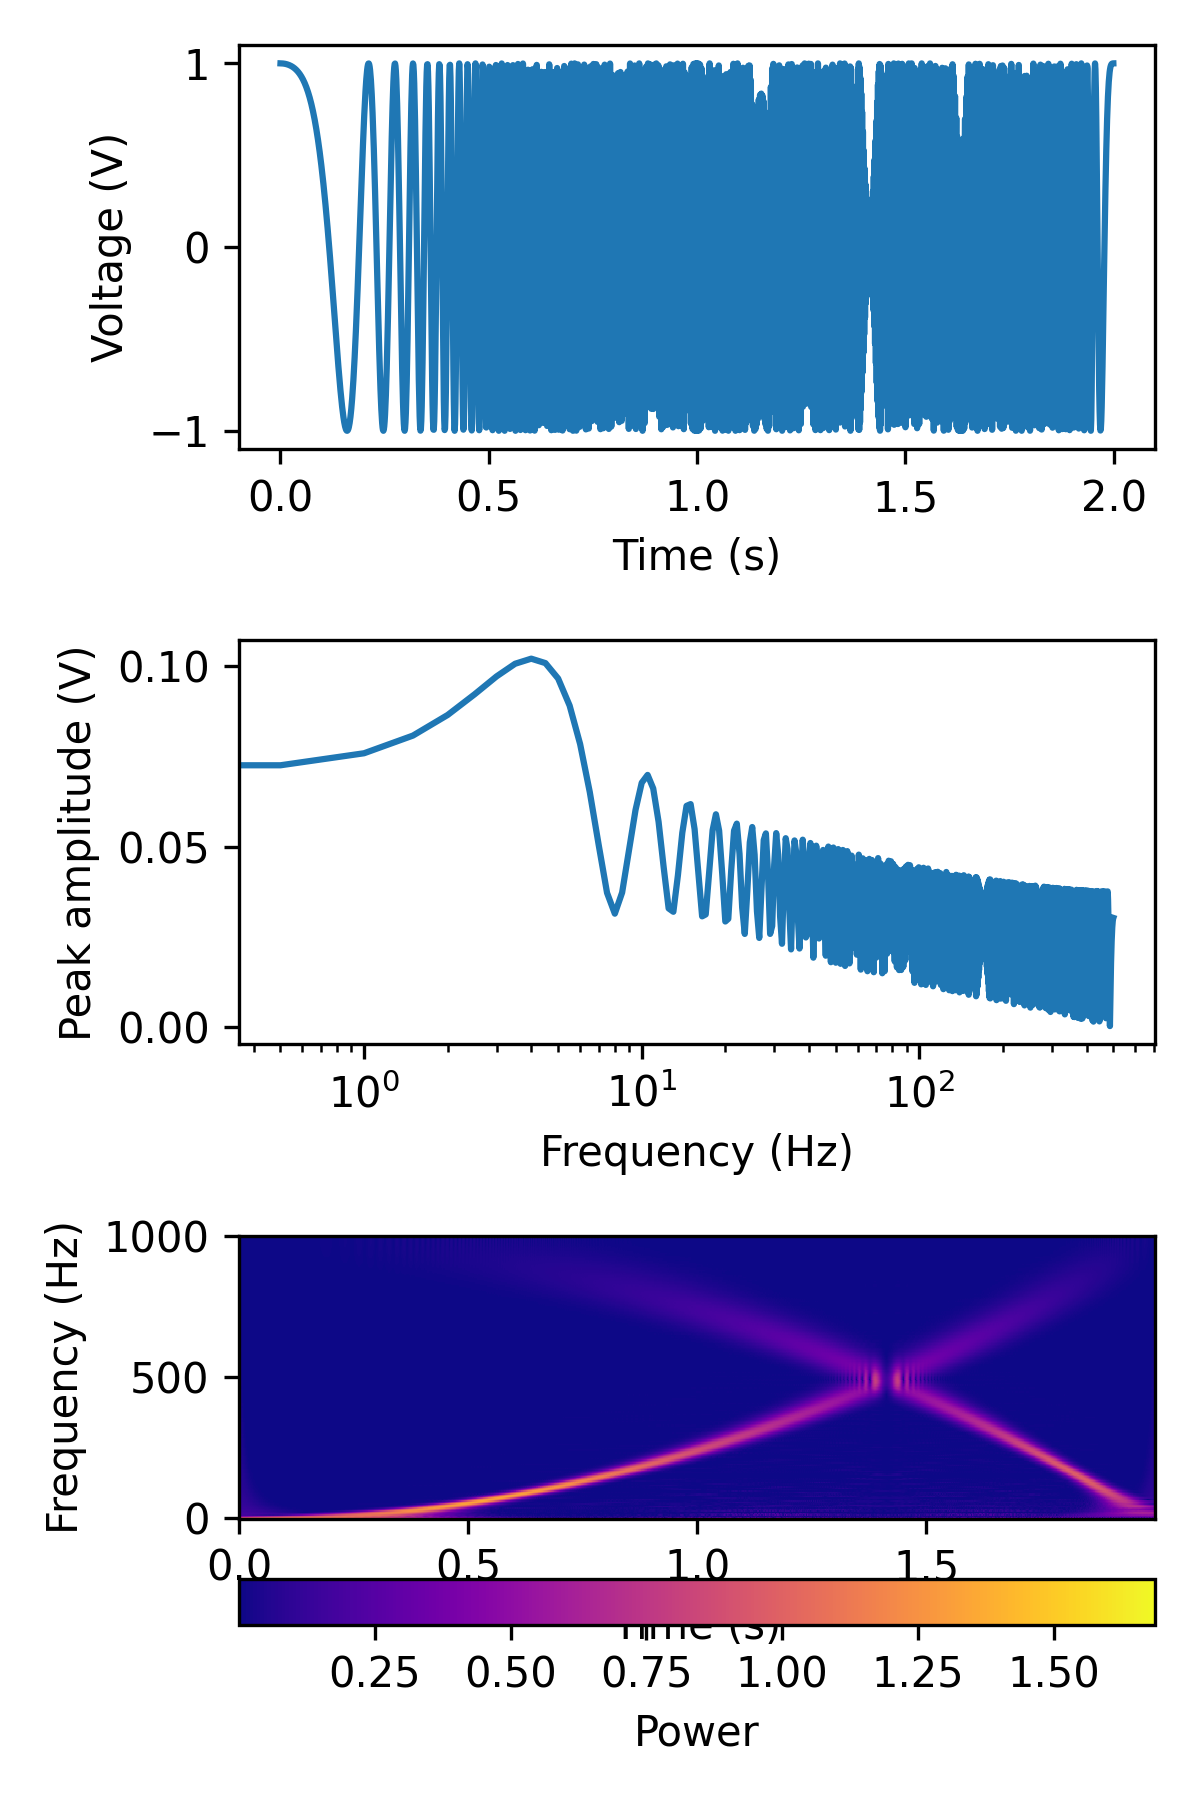
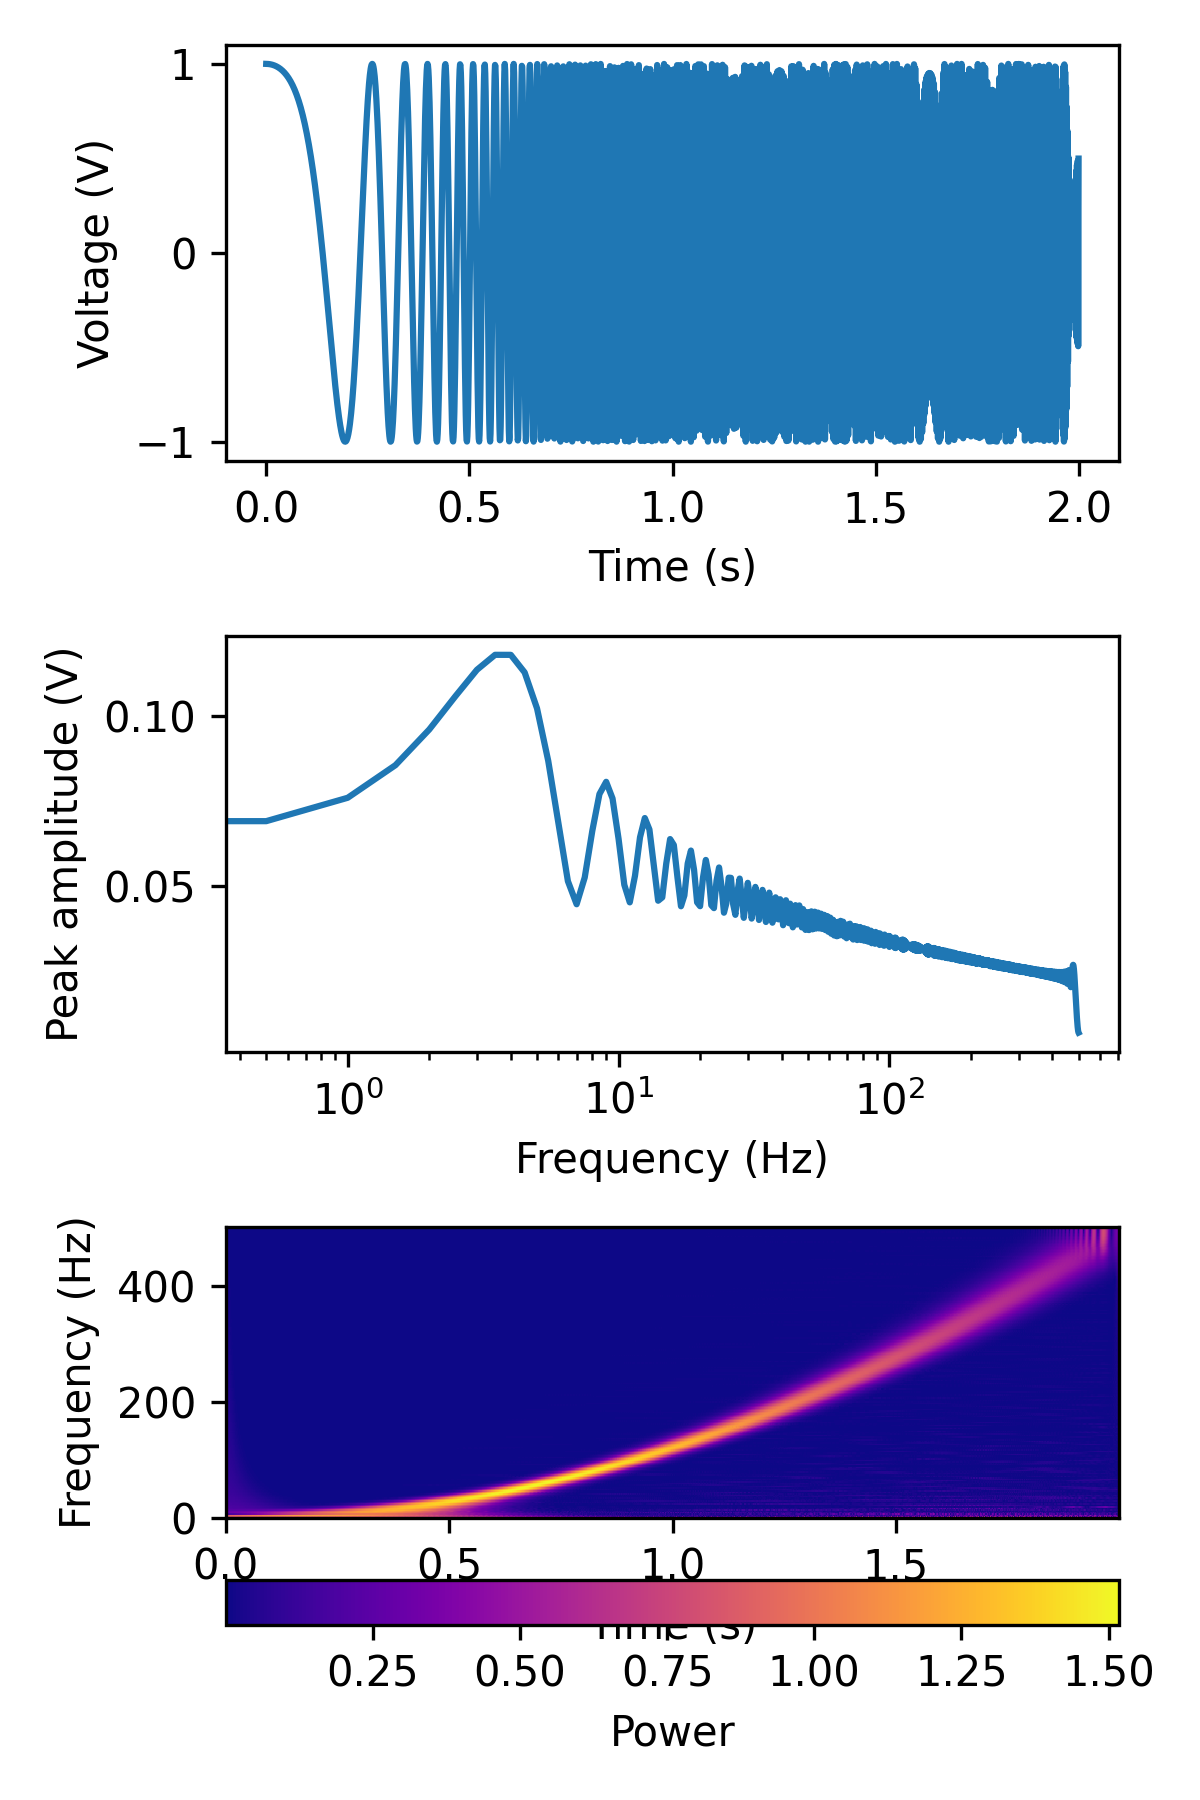
add stft

diff --git a/aopy/analysis/base.py b/aopy/analysis/base.py
@@ -790,6 +790,58 @@ def calc_cwt_tfr(data, freqs, samplerate, fb=1.5, f0_norm=1.0, method='fft', com
         coef = np.abs(coef)
     return freqs, time, np.flip(coef, axis=0)
 
+def calc_ft_tfr(data, samplerate, win_t, step, f_max=None, pad=2, window=None, 
+                 detrend='constant', complex_output=False):
+    '''
+    Short-time fourier transform. Makes use of scipy.signal.spectrogram to compute
+    a fast spectrogram. 
+
+    Args:
+        data (nt, nch): timeseries data.
+        samplerate (float): sampling rate of the data.
+        win_t (float): window size in seconds.
+        step (float): step size in seconds.
+        f_max (float): frequency range to return in Hz ([0, f_max]). Defaults to samplerate/2.
+        pad (int):  padding factor for the FFT. This should be 1 or a multiple of 2.
+                    For N=500, if pad=1, we pad the FFT to 512 points.
+                    If pad=2, we pad the FFT to 1024 points. 
+                    If pad=4, we pad the FFT to 2024 points.
+        window (tuple, optional): see scipy documentation. Defaults to None.
+        detrend (str, optional): see scipy documentation. Defaults to 'constant'.
+        complex_output (bool): if True, return the complex signal instead of magnitude.
+                               Default False.
+
+    Returns:
+        tuple: Tuple containing:
+            | **f (n_freq):** frequency axis for spectrogram
+            | **t (n_time):** time axis for spectrogram
+            | **spec (n_freq,n_time,nch):** multitaper spectrogram estimate
+    '''
+    if isinstance(data, list): 
+        data = np.array(data)
+    if data.ndim == 1:
+        data = data[:, np.newaxis]
+
+    win_size = int(samplerate * win_t)
+    overlap_size = win_size - int(samplerate * step)
+    assert overlap_size > 0, "Step size exceeds window size"
+
+    nfft = np.max([256, pad * 2**utils.nextpow2(win_size + 1)]) # 0 padding for efficient computation in FFT
+    nfk = int(np.floor(f_max/samplerate*nfft)) # number of data points in frequency axis
+
+    if window is None:
+        window = ('tukey', 0.25)
+
+    freqs, time, spec = scipy.signal.spectrogram(
+        data, fs=samplerate, window=window, nperseg=win_size, noverlap=overlap_size, nfft=nfft, 
+        detrend=detrend, scaling='spectrum', axis=0, mode='complex')
+    
+    if complex_output:
+        return freqs[:nfk], time, spec[:nfk].transpose(0,2,1)
+    else:
+        return freqs[:nfk], time, np.abs(spec[:nfk]).transpose(0,2,1)
+
+
 def calc_mt_tfr(ts_data, n, p, k, fs, step=None, fk=None, pad=2, ref=True, complex_output=False, dtype='float64'):
     '''
     Compute multitaper time-frequency estimate from multichannel signal input. This code is adapted from the Pesaran lab `tfspec`.    

diff --git a/tests/test_analysis.py b/tests/test_analysis.py
@@ -887,7 +887,7 @@ class HelperFunctions:
         t = np.arange(2*samplerate)/samplerate
         f0 = 1
         t1 = 2
-        f1 = 1000
+        f1 = 500
         data = np.expand_dims(signal.chirp(t, f0, t1, f1, method='quadratic', phi=0),1)
 
         f_spec,t_spec,spec = tfr_fun(data, samplerate)
@@ -975,6 +975,27 @@ class SpectrumTests(unittest.TestCase):
         self.assertEqual(lfp.shape[1], self.x2.shape[1])
         self.assertEqual(lfp.shape[0], len(bands))
 
+    def test_tfr_ft(self):
+        win_t = 0.2
+        step = 0.01
+        f_max = 50
+        tfr_fun = lambda data, fs: aopy.analysis.calc_ft_tfr(data, fs, win_t, step, f_max)
+        filename = 'tfr_ft_sines.png'
+        HelperFunctions.test_tfr_sines(tfr_fun)
+        savefig(docs_dir,filename)
+        
+        f_max = 500
+        filename = 'tfr_ft_chirp.png'
+        tfr_fun = lambda data, fs: aopy.analysis.calc_ft_tfr(data, fs, win_t, step, f_max)
+        HelperFunctions.test_tfr_chirp(tfr_fun)
+        savefig(docs_dir,filename)
+        
+        f_max = 200
+        tfr_fun = lambda data, fs: aopy.analysis.calc_ft_tfr(data, fs, win_t, step, f_max)
+        HelperFunctions.test_tfr_lfp(tfr_fun)
+        filename = 'tfr_ft_lfp.png'
+        savefig(docs_dir,filename)
+        
     def test_tfr_mt(self):
         NW = 2
         BW = 1
@@ -990,7 +1011,7 @@ class SpectrumTests(unittest.TestCase):
         BW = 10
         n, p, k = aopy.precondition.convert_taper_parameters(NW, BW)
         step = 0.01
-        fk = 1000
+        fk = 500
         filename = 'tfr_mt_chirp.png'
         tfr_fun = lambda data, fs: aopy.analysis.calc_mt_tfr(data, n, p, k, fs, step=step, fk=fk, pad=2, ref=False)
         HelperFunctions.test_tfr_chirp(tfr_fun)
@@ -1009,7 +1030,7 @@ class SpectrumTests(unittest.TestCase):
         HelperFunctions.test_tfr_sines(tfr_fun)
         savefig(docs_dir,filename)
         
-        freqs = np.linspace(1,1000,200)
+        freqs = np.linspace(1,500,200)
         tfr_fun = lambda data, fs: aopy.analysis.calc_cwt_tfr(data, freqs, fs, fb=10, f0_norm=1, verbose=True)
         filename = 'tfr_cwt_chirp.png'
         HelperFunctions.test_tfr_chirp(tfr_fun)
